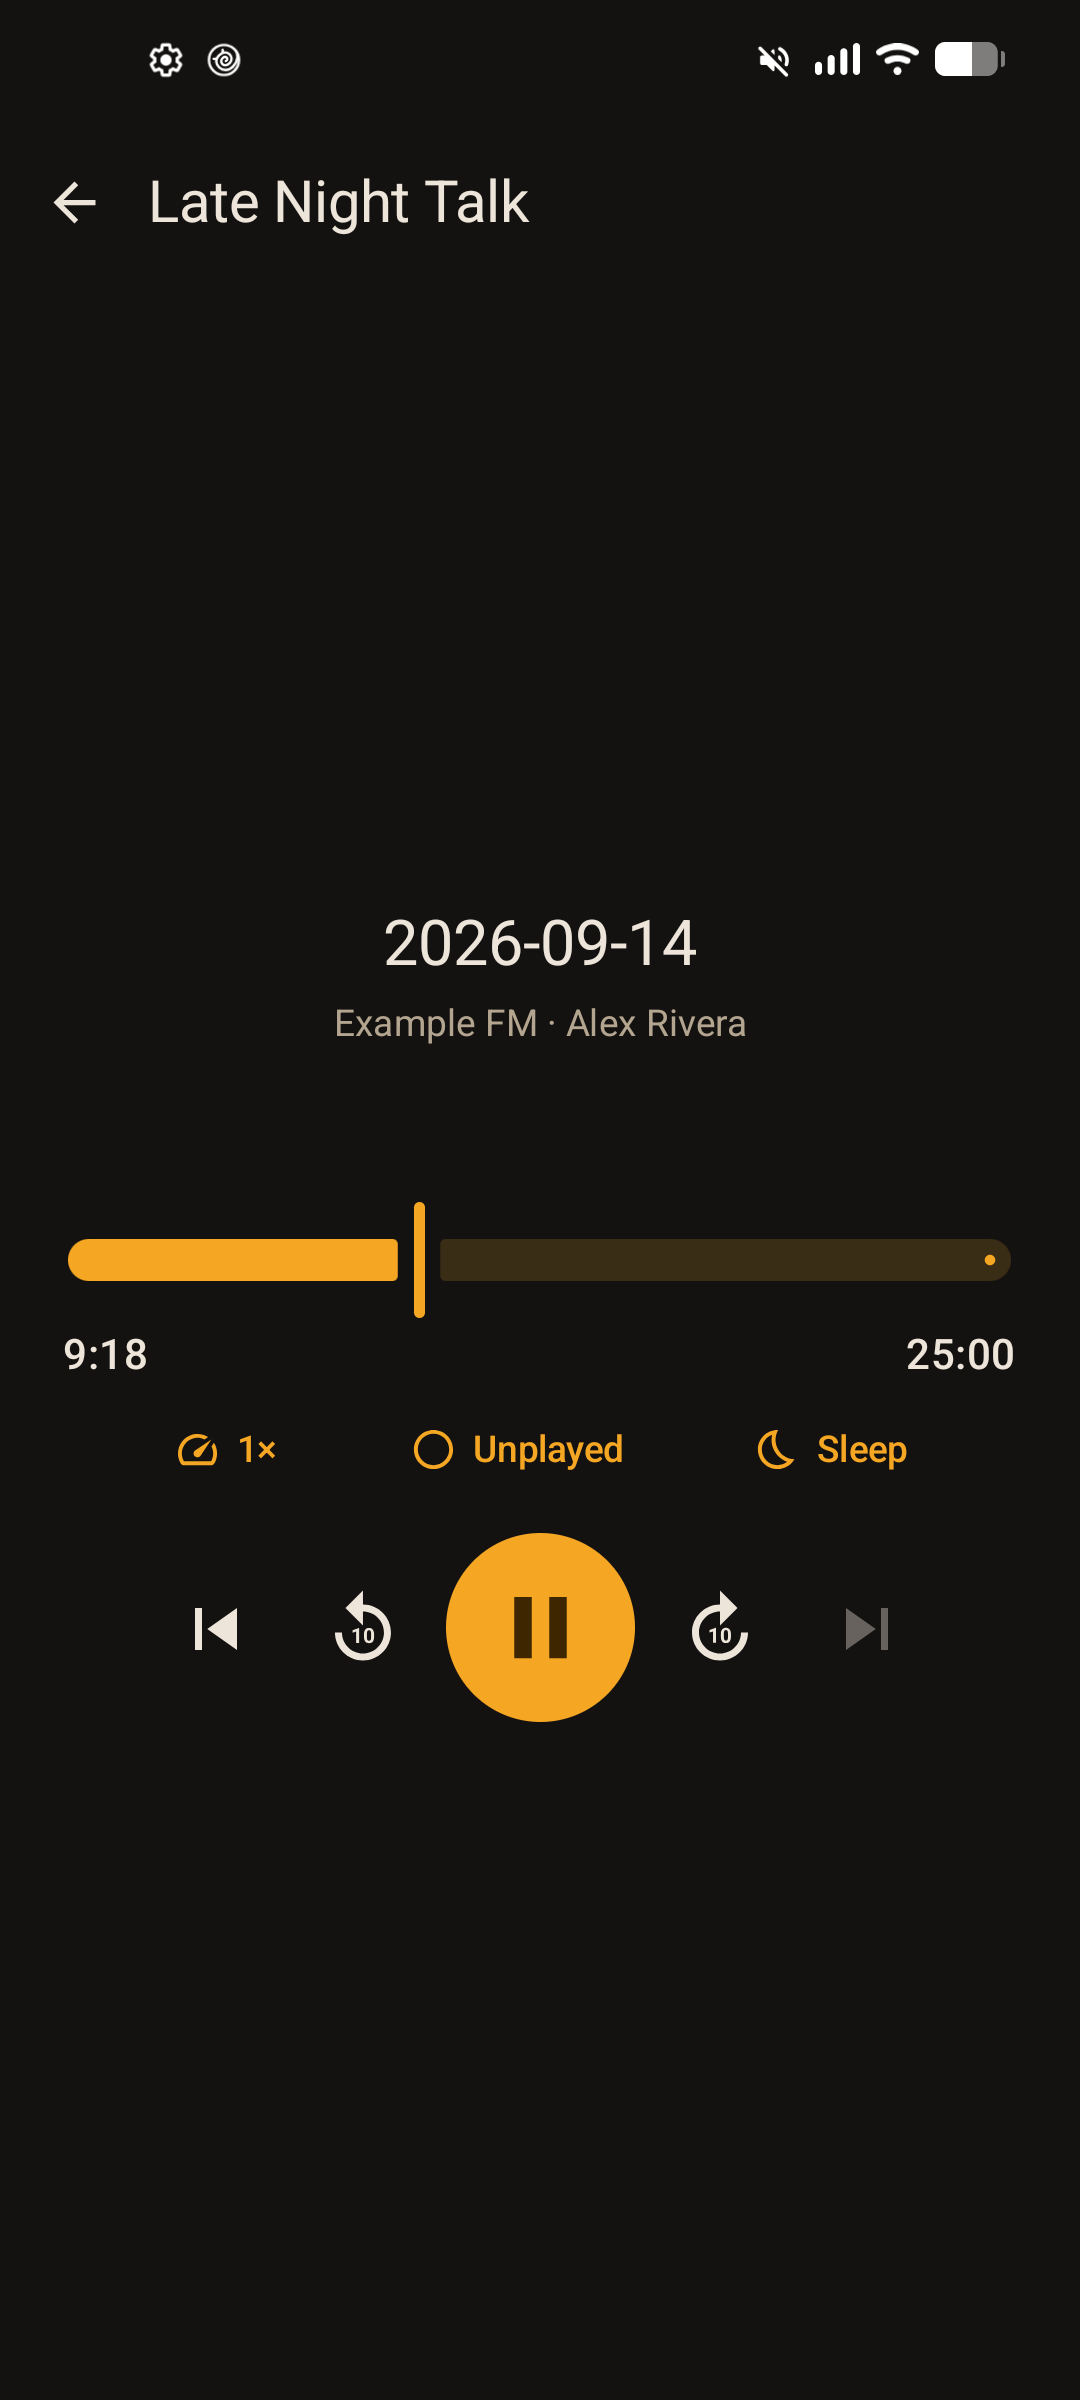
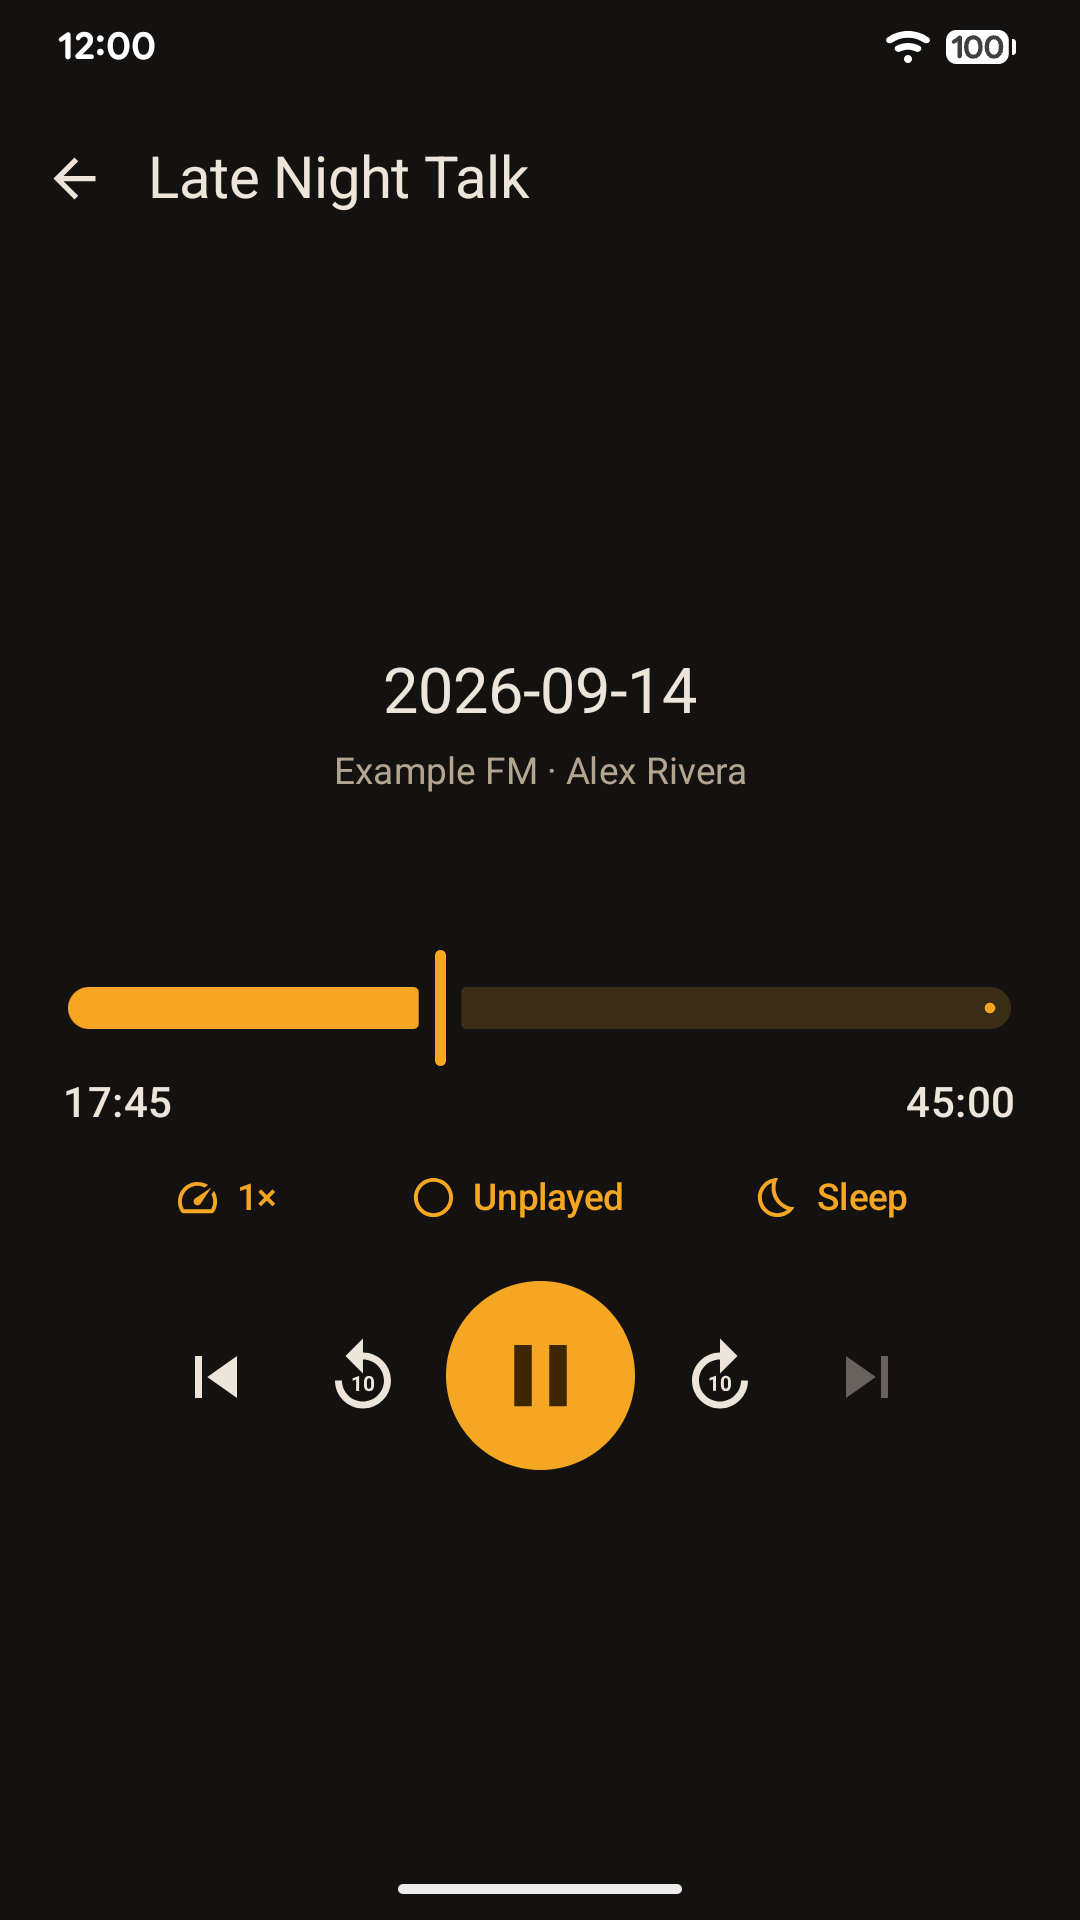
feat: ストア用スクリーンショットを 9:16 に撮り直し、ja-JP を足す (#36) (#37)
* feat: ストア用スクリーンショットを 9:16 に撮り直し、ja-JP を足す (#36)

* docs: スクリーンショットの撮り方に ADB の定義・push・確かめた範囲を足す (#36)

* docs: スクリーンショットの push 元に KIKIDAME_JF_DIR の既定値を持たせる (#36)

---------

diff --git a/docs/development.md b/docs/development.md
@@ -132,6 +132,60 @@ KIKIDAME_JELLYFIN_URL=http://localhost:8097 ./gradlew :core:data:testDebugUnitTe
 | Jellyfin 10.10.7 | 通る |
 | Jellyfin 12.0.0 | 通る |
 
+### ストア用のスクリーンショットの撮り方
+
+Google Play のスマートフォン用のスクリーンショットは、アスペクト比が 16:9 か 9:16 に限られる（Play Console のアップロード欄の説明による）。
+実機（Pixel 7a、debug アプリ）で 1080×1920 に撮り、`fastlane/metadata/android/{en-US,ja-JP}/images/phoneScreenshots/1〜4.png` に置く。
+場面は 1 が続きから、2 が各回の一覧、3 がプレーヤー、4 が同期の設定。
+`$ADB` と、端末を指す `ANDROID_SERIAL` は [docs/device-testing.md](device-testing.md) の「接続」の節のとおりに用意する。
+
+1. 見本のライブラリを `media` で作り（英語は `showcase`、日本語は `showcase-ja`。上の「テスト用 Jellyfin サーバ」）、`${KIKIDAME_JF_DIR:-/tmp/kikidame-jf}/media` を端末のフォルダに置く。
+   置いた後、debug アプリの取得元をそのフォルダに切り替えて同期する（手で行う）
+
+   ```bash
+   ADB=~/Android/Sdk/platform-tools/adb
+   KIKIDAME_JF_LIBRARY=showcase scripts/jellyfin-testserver.sh media   # 日本語は showcase-ja
+   $ADB push "${KIKIDAME_JF_DIR:-/tmp/kikidame-jf}/media/." /sdcard/KikidameShowcaseEn/   # 日本語は /sdcard/KikidameShowcaseJa/
+   ```
+
+2. 画面を 9:16 にし、SystemUI のデモモードで状態表示の帯を整える（時計 12:00、電池 100、Wi-Fi 全本、モバイルの電波は非表示）。
+   下の 7 行は、このスクリーンショットの撮影のとき Pixel 7a で同じ引数で流して確かめた（時計・電池・Wi-Fi・モバイルの電波がそのとおりの表示になった）。ほかの端末は未確認
+
+   ```bash
+   ADB=~/Android/Sdk/platform-tools/adb
+   $ADB shell wm size 1080x1920
+   $ADB shell settings put global sysui_demo_allowed 1
+   $ADB shell am broadcast -a com.android.systemui.demo -e command enter
+   $ADB shell am broadcast -a com.android.systemui.demo -e command clock -e hhmm 1200
+   $ADB shell am broadcast -a com.android.systemui.demo -e command battery -e level 100 -e plugged false
+   $ADB shell am broadcast -a com.android.systemui.demo -e command network -e wifi show -e level 4 -e fully true
+   $ADB shell am broadcast -a com.android.systemui.demo -e command network -e mobile hide
+   ```
+
+3. debug アプリの言語を切り替える（英語なら `en-US`。手順 6 の戻し方の 4 行とともに、Pixel 7a で同じ引数で流した）
+
+   ```bash
+   $ADB shell cmd locale set-app-locales dev.tseki.kikidame.debug --locales ja-JP
+   ```
+
+4. 4 場面を撮る
+
+   ```bash
+   $ADB exec-out screencap -p > <出力先>/ja-1.png
+   ```
+
+5. 通知のアイコンは、デモモードの `notifications -e visible false` を送っても消えなかった（Pixel 7a で確かめた）。
+   撮った画像の状態表示の帯の (165,10)〜(470,85) を、帯の背景色（(600,47) の画素）で塗って消す。
+   この範囲は Pixel 7a で 1080×1920 のときの値で、ほかの端末で同じかは未確認
+6. 撮り終えたら端末を戻す
+
+   ```bash
+   $ADB shell wm size reset
+   $ADB shell am broadcast -a com.android.systemui.demo -e command exit
+   $ADB shell settings put global sysui_demo_allowed 0
+   $ADB shell cmd locale set-app-locales dev.tseki.kikidame.debug --locales ""
+   ```
+
 ## リリース
 
 この節はメンテナ向け（署名鍵を持ち、リリースを出す人）。コントリビューターは読まなくてよい。

diff --git a/README.ja.md b/README.ja.md
@@ -9,10 +9,10 @@ English: [README.md](./README.md)
 https://github.com/user-attachments/assets/57cfc319-f561-46e8-878b-c6f96fc64565
 
 <p>
-<img src="fastlane/metadata/android/en-US/images/phoneScreenshots/1.png" width="180" alt="Continue"> <img src="fastlane/metadata/android/en-US/images/phoneScreenshots/2.png" width="180" alt="Episodes"> <img src="fastlane/metadata/android/en-US/images/phoneScreenshots/3.png" width="180" alt="Player"> <img src="fastlane/metadata/android/en-US/images/phoneScreenshots/4.png" width="180" alt="Sync settings">
+<img src="fastlane/metadata/android/ja-JP/images/phoneScreenshots/1.png" width="180" alt="続きから"> <img src="fastlane/metadata/android/ja-JP/images/phoneScreenshots/2.png" width="180" alt="各回"> <img src="fastlane/metadata/android/ja-JP/images/phoneScreenshots/3.png" width="180" alt="プレーヤー"> <img src="fastlane/metadata/android/ja-JP/images/phoneScreenshots/4.png" width="180" alt="同期の設定">
 </p>
 
-スクリーンショット: 続きから・各回一覧・再生画面・同期設定（英語 UI）
+スクリーンショット: 続きから・各回一覧・再生画面・同期設定（日本語 UI）
 
 ## 入れ方
 
